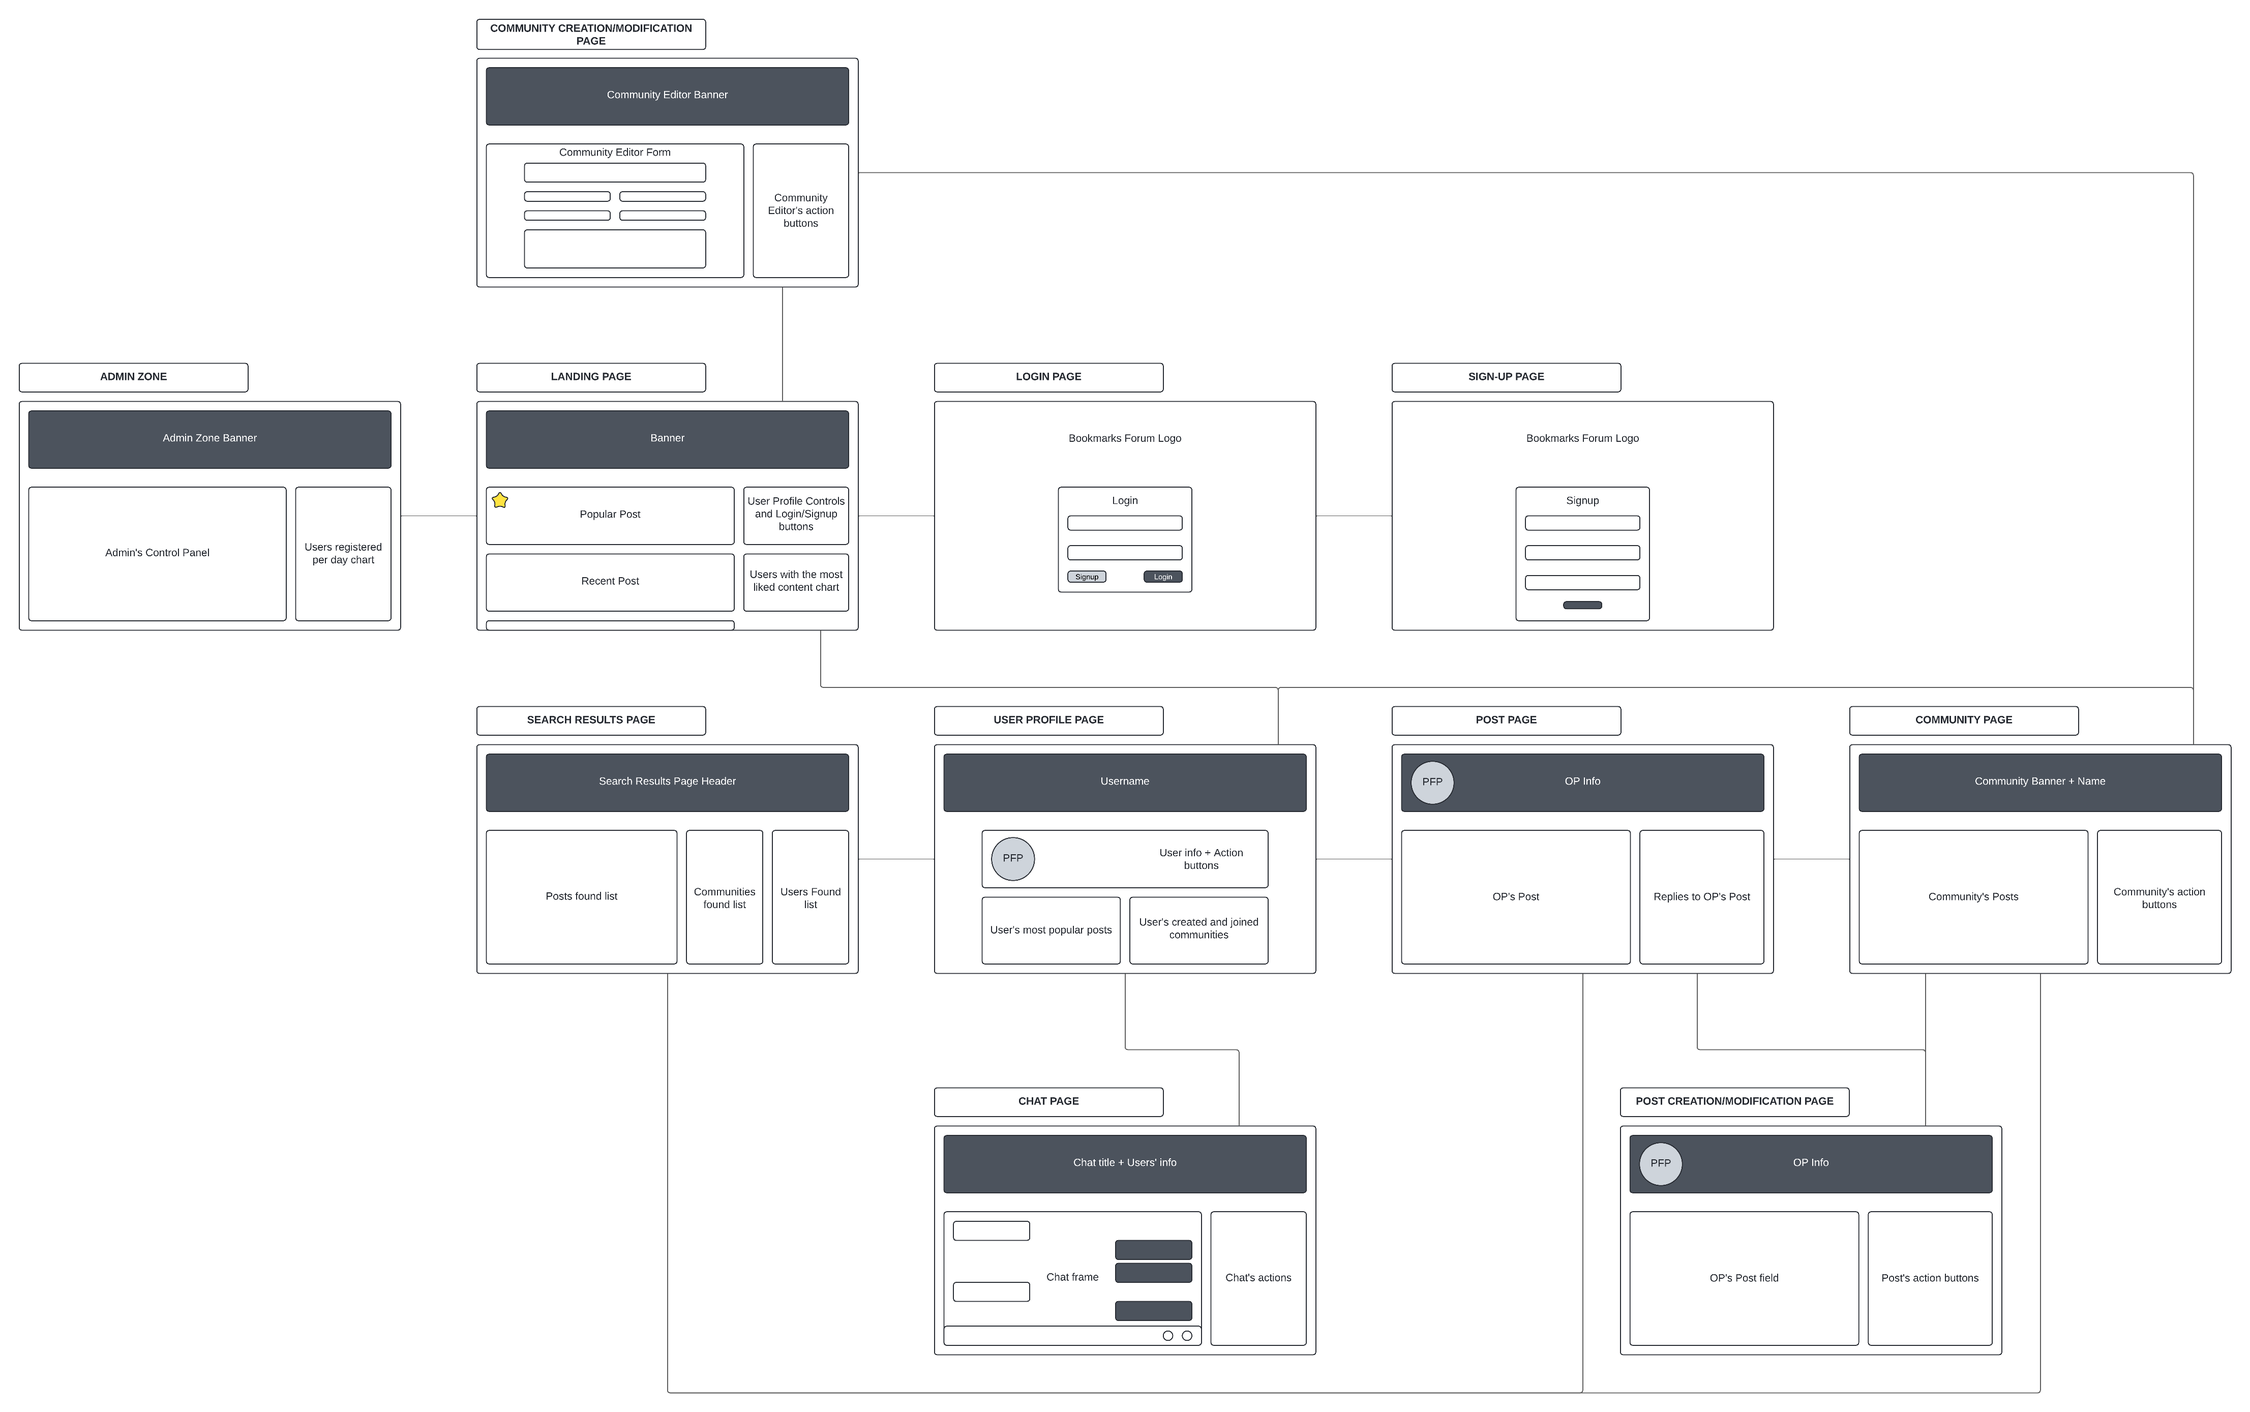
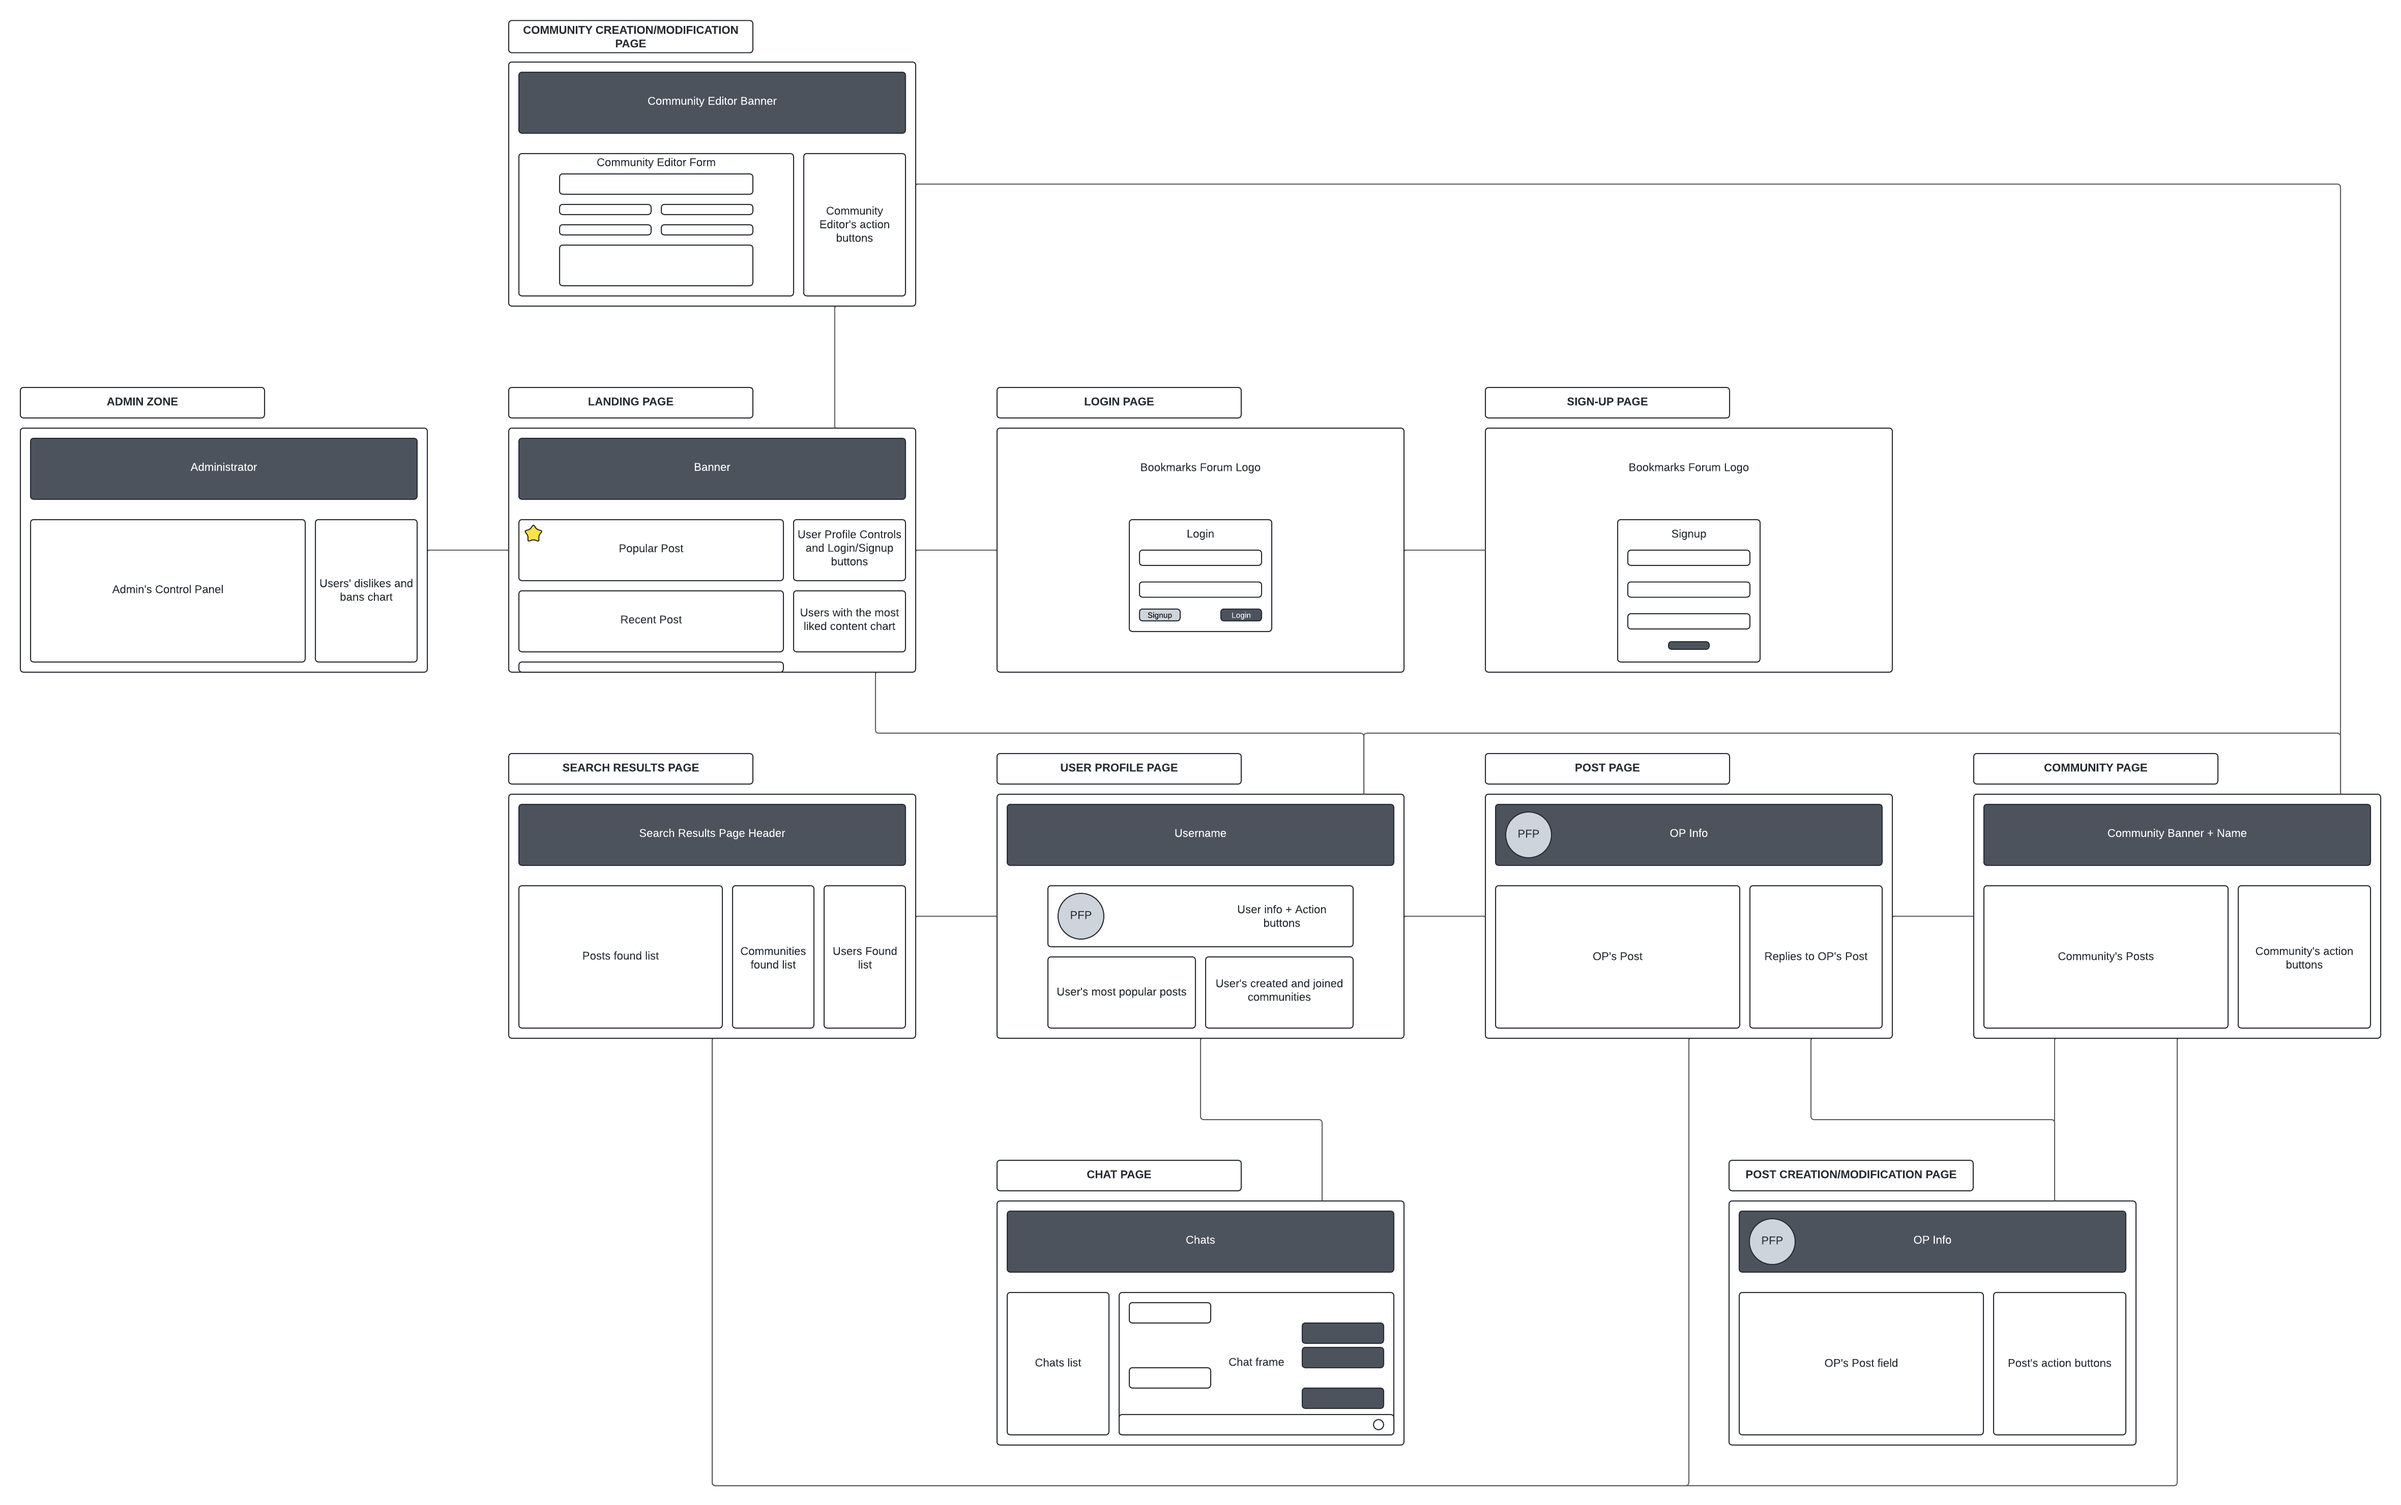
Updated README
Updated Readme to include new diagrams, images and page descriptions for the Chat and Admin pages.

diff --git a/README.md b/README.md
@@ -59,19 +59,18 @@ With Bookmarks Forums any user will be able to sign up or login to the forums, c
 
 Apart from what has been mentioned above, Bookmarks Forums will allow set search sorting filters for searching the most popular or recent posts.
 
-Users will be able to create chat rooms to chat between each other.
+Users will be able to create chats to chat between each other.
 
 The main landing page will serve posts and content using an algorithm based on the popularity of posts.
 
 The application will offer charts that will allow users and administrators to easily check the most popular users and more.
 
-Users will receive emails regarding messages or replies to their posts.
+Users will receive emails regarding important updates to their profiles (email and/or password change notifications).
 
 The application will serve a REST API.
 
-Administrators will be able to see the worst behaving users and ban them from the site.
+Administrators will be able to see the worst behaving users and disable their accounts.
 
-❗**The chats and advanced administrator functionalities will be implemented in the v1.0 release of the application.**
 
 ## 5. Other details
 
@@ -89,7 +88,7 @@ For the current version of the application, it has the following entities in its
 
 The users database is separated from Bookmarks to let the users decide whether they want to participate in the forums or not, regardless of having a Bookmarks account.
 
-![Database Entity Relationship Diagram](<Readme images/ER DB Diagram v2.png>)
+![Database Entity Relationship Diagram](<Readme images/ER DB Diagram v3.png>)
 
 ### ii. Backend diagram
 
@@ -137,14 +136,14 @@ These entities have images linked to them:
 ### vi. Graphs and charts
 
 - Users with the most liked content: shown in the landing page as a bar chart.
-- Rate of users registered per day: shown as a line chart in the administrator zone. (This will be implemented in the future as part of the administrator page, with its advanced functionalities).
+- Rate of likes/dislikes and community bans per user: shown as bar charts in the administrator zone.
 
 ### vii. Advanced complementary technology
 
 The aim is to include the following additional technologies to the project:
 
-- Mail notifications will be sent to users that have been directly messaged or replied.
-- Websockets will be used in order to offer real-time notifications for chat messages. (This will be implemented in the future as part of the chat functionality).
+- Mail notifications will be sent to users that have made any changes to their email addresses or password.
+- Websockets will be used in order to offer a real-time chat experience.
 
 ### viii. Other algorithms
 
@@ -238,6 +237,16 @@ _Page for modifying user profile details._
 ![Search Results Screen](<Readme images/Screenshots/Search_page_Screen.png>)
 _Search results page showing search outcomes._
 
+### Administrator page:
+
+![Administrator Screen](<Readme images/Screenshots/Admin_Screen.png>)
+_Administrator page displaying a list of users and two charts that show the ban and dislike count for each user._
+
+### Chat page:
+
+![Chat Screen](<Readme images/Screenshots/Chat_Screen.png>)
+_Chat page displaying a list of chats and an active chat with some messages._
+
 ### Error page:
 
 ![Error Screen](<Readme images/Screenshots/Error_Screen.png>)
@@ -247,9 +256,11 @@ _Error page displayed for invalid actions or pages._
 
 Here is the navigation map of the web application. The map shows the different screens and the possible transitions between them per user permissions.
 
-In this map, the chat and administrator zone are not shown as they will be implemented in the future as advanced functionalities.
 
 ![Navigation Map](<Readme images/Nav Diagram.png>)
+
+⚠ **The Landing, Chat and Administrator pages are accessible all the time (this last one only if logged as Admin) through the navbar when it is visible. The navbar is visible in all pages except for the Login and Signup ones.**
+
 
 # 9. REST API Documentation
 
